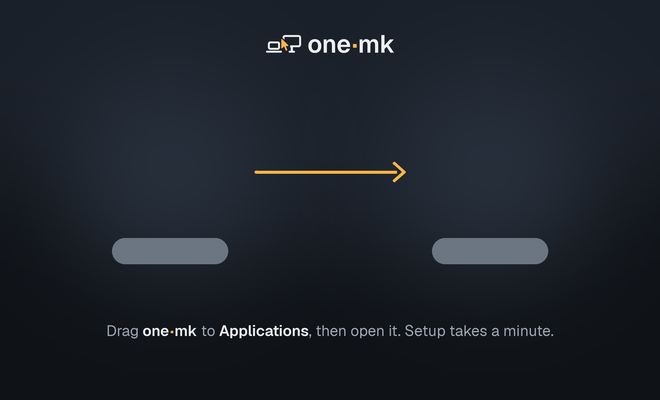
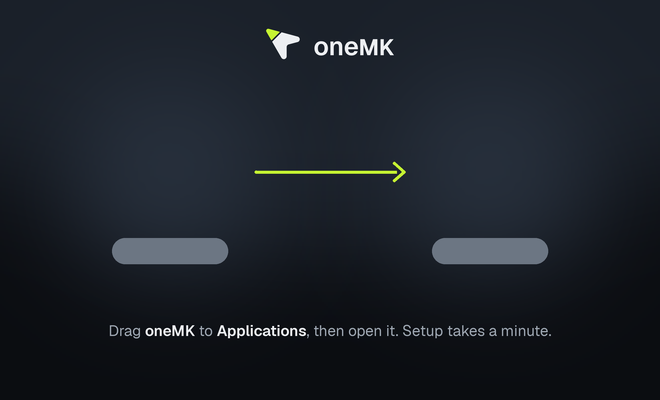
Installer window: drawn in the Night colours, and it says oneMK

Changed region(s): [[0.1515, 0.81, 0.8485, 0.84], [0.3939, 0.06, 0.6061, 0.15], [0.3939, 0.42, 0.6364, 0.45]]

diff --git a/scripts/dmg/make_background.py b/scripts/dmg/make_background.py
@@ -138,9 +138,7 @@ def message_segments(scale, ink, ink2, signal, pt=15):
     semi, reg = "Geist-SemiBold.ttf", "Geist-Regular.ttf"
     return [
         ("t", "Drag ", reg, (px, ink2)),
-        ("t", "one", semi, (px, ink)),
-        ("dot", px, signal, None),
-        ("t", "mk", semi, (px, ink)),
+        ("t", "oneMK", semi, (px, ink)),
         ("t", " to ", reg, (px, ink2)),
         ("t", "Applications", semi, (px, ink)),
         ("t", ", then open it. Setup takes a minute.", reg, (px, ink2)),
